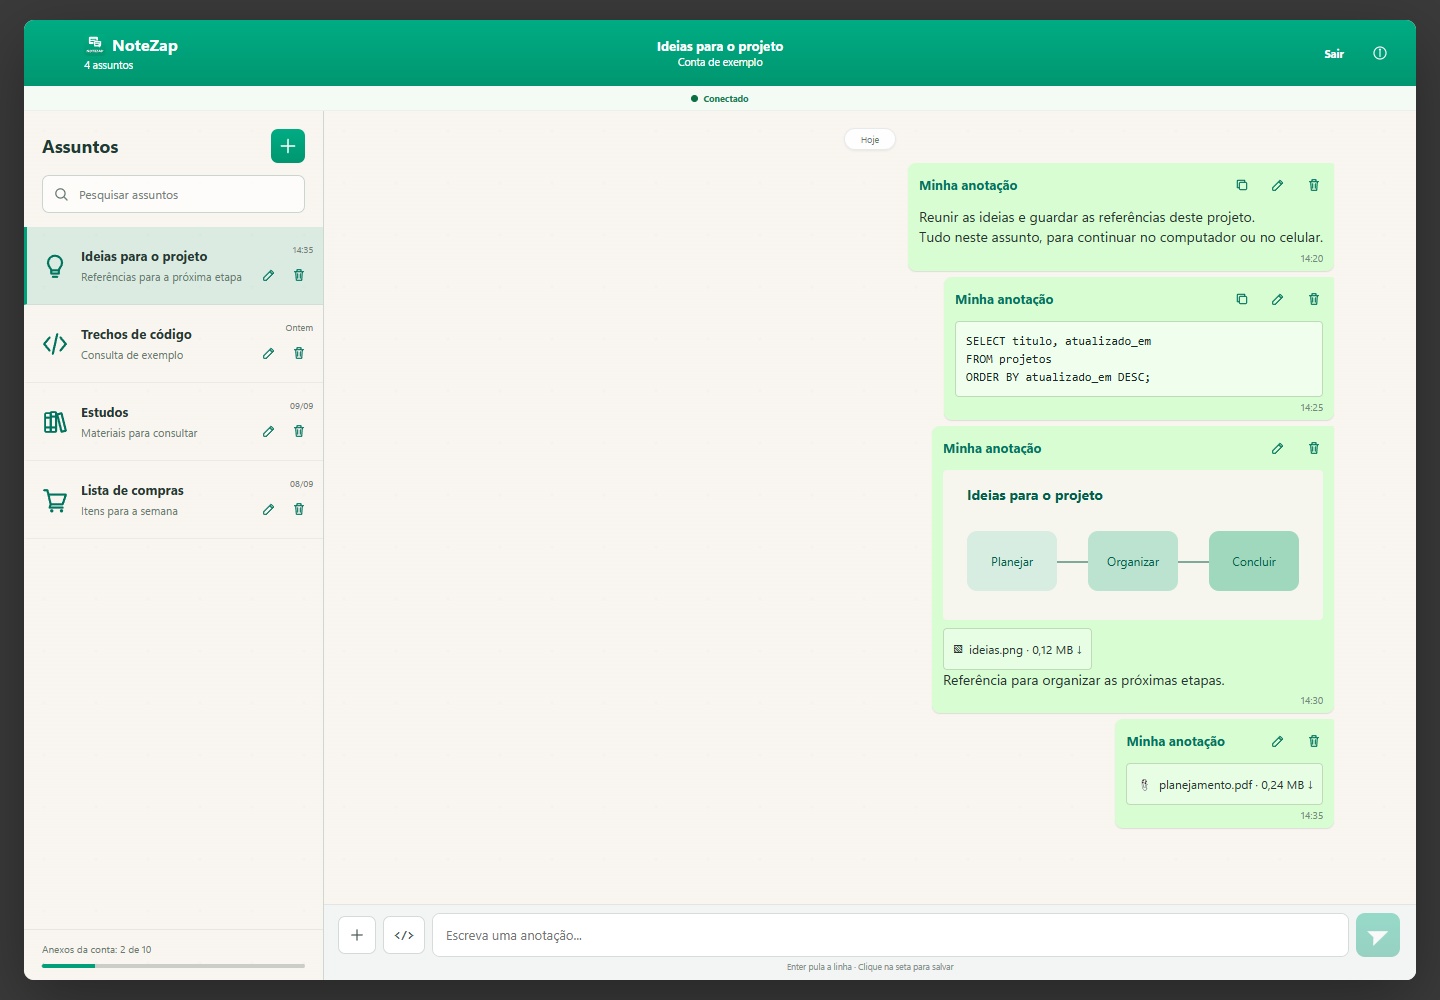
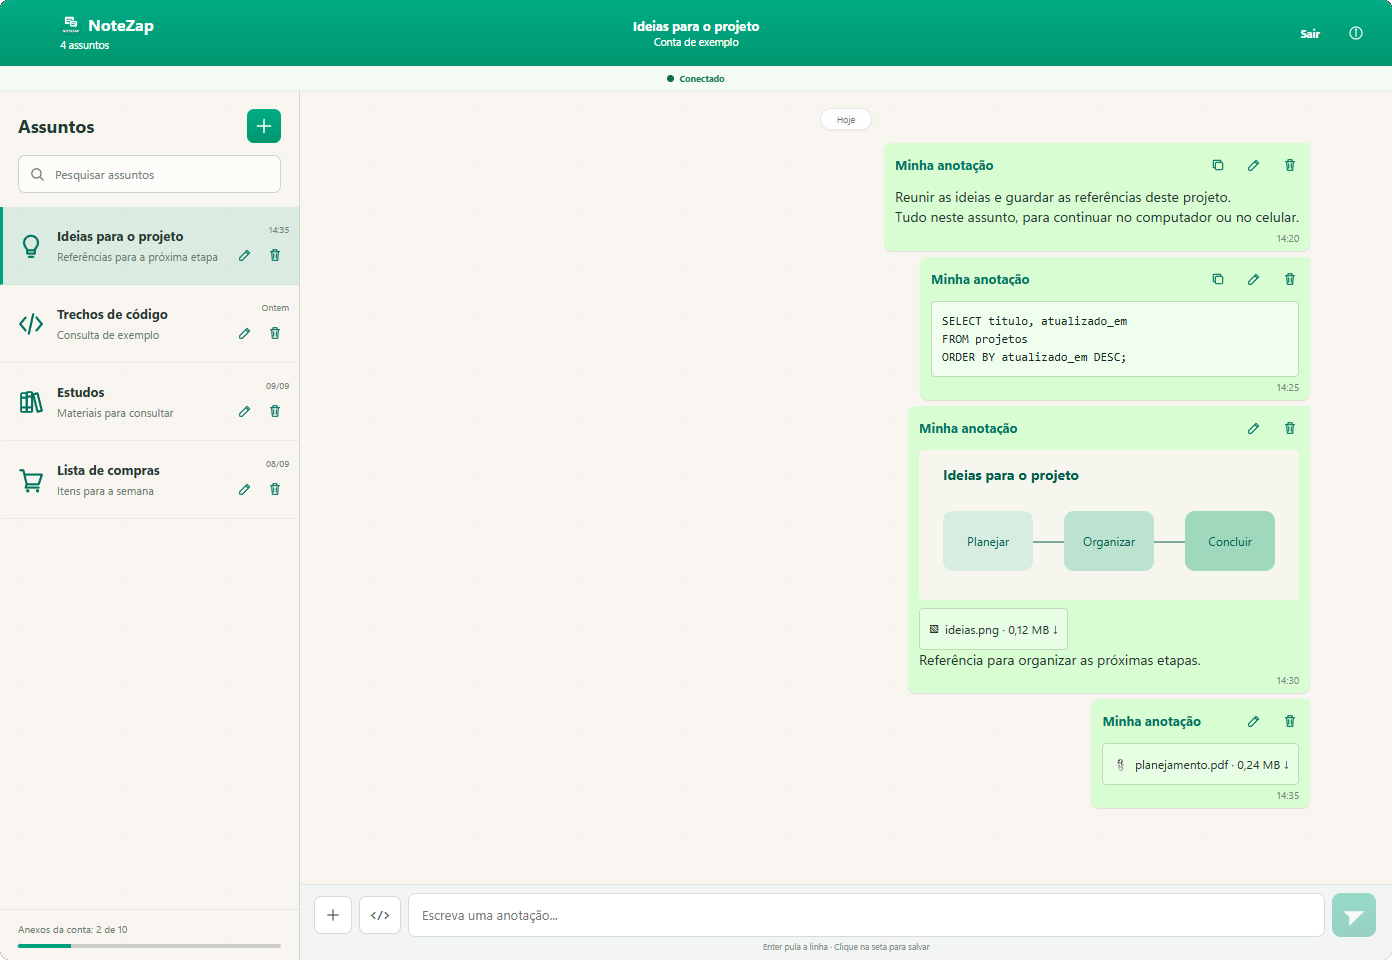
Padroniza a vitrine e corrige a prévia local
Os cards do NoteZap e do CopieECole agora seguem o padrão visual da vitrine, o print do NoteZap não possui moldura exclusiva e os selos Novo compartilham a mesma aparência. A prévia aberta por arquivo consulta os manifestos publicados sem enfraquecer a validação dos instaladores.

Changed region(s): [[0.0, 0.0, 1.0, 1.0], [0.1853, 0.4688, 0.2162, 0.5312], [0.5869, 0.125, 0.6178, 0.1562]]

diff --git a/index.html b/index.html
@@ -3,7 +3,7 @@
 <head>
 <meta charset="UTF-8">
 <meta name="viewport" content="width=device-width, initial-scale=1.0">
-<meta http-equiv="Content-Security-Policy" content="default-src 'self'; base-uri 'none'; object-src 'none'; frame-src 'none'; form-action 'none'; script-src 'self' 'unsafe-inline'; style-src 'self' 'unsafe-inline' https://fonts.googleapis.com; font-src https://fonts.gstatic.com data:; img-src 'self' data: https://www.paypalobjects.com; connect-src 'self' https://api.github.com; upgrade-insecure-requests">
+<meta http-equiv="Content-Security-Policy" content="default-src 'self'; base-uri 'none'; object-src 'none'; frame-src 'none'; form-action 'none'; script-src 'self' 'unsafe-inline'; style-src 'self' 'unsafe-inline' https://fonts.googleapis.com; font-src https://fonts.gstatic.com data:; img-src 'self' data: https://www.paypalobjects.com; connect-src 'self' https://hetoandrade.com.br https://api.github.com; upgrade-insecure-requests">
 <meta name="referrer" content="no-referrer">
 
 <!-- SEO -->
@@ -1349,7 +1349,7 @@
           <div class="screenshot-label"><strong>Prévia ilustrativa</strong> — entrada com sua conta Google</div>
         </div>
         <div class="screenshot-card" role="button" tabindex="0" aria-label="Ampliar a prévia das anotações do NoteZap" onclick="openLightbox('Prints/NoteZap/anotacoes-ilustrativas.png', 'notezap')" onkeydown="if(event.key === 'Enter' || event.key === ' ') { event.preventDefault(); this.click(); }">
-          <img src="Prints/NoteZap/anotacoes-ilustrativas.png" alt="Prévia ilustrativa do NoteZap com assuntos, anotações de texto e código, imagem e arquivo de exemplo" loading="lazy" width="1440" height="1000">
+          <img src="Prints/NoteZap/anotacoes-ilustrativas.png" alt="Prévia ilustrativa do NoteZap com assuntos, anotações de texto e código, imagem e arquivo de exemplo" loading="lazy" width="1392" height="960">
           <div class="screenshot-label"><strong>Prévia ilustrativa</strong> — assuntos, textos, códigos e anexos</div>
         </div>
       </div>
@@ -1800,7 +1800,13 @@
   </button>
 </div>
 
+<script src="manifest-source.js"></script>
 <script>
+var siteManifestUrl = window.HetoandradeSite &&
+  typeof window.HetoandradeSite.manifestUrl === 'function'
+  ? window.HetoandradeSite.manifestUrl
+  : function(fileName) { return fileName; };
+
 // ─── Lightbox ───
 var lightboxGroups = {
   notezap: [
@@ -2126,7 +2132,7 @@ fetch('https://api.github.com/repos/hetoandrade/hetoandrade.github.io/releases?p
   .catch(function() {});
 
 // ─── Versao VozDigitada ───
-fetch('version.json', { cache: 'no-cache' })
+fetch(siteManifestUrl('version.json'), { cache: 'no-cache' })
   .then(function(r) { return r.json(); })
   .then(function(data) {
     var v = data.version;
@@ -2143,7 +2149,7 @@ fetch('version.json', { cache: 'no-cache' })
   });
 
 // ─── Versao DriverStatus ───
-fetch('version_driverstatus.json', { cache: 'no-cache' })
+fetch(siteManifestUrl('version_driverstatus.json'), { cache: 'no-cache' })
   .then(function(r) { return r.json(); })
   .then(function(data) {
     var v = data.version;
@@ -2197,7 +2203,7 @@ fetch('version_driverstatus.json', { cache: 'no-cache' })
     });
   }
 
-  fetch('version_copieecole.json', { cache: 'no-cache' })
+  fetch(siteManifestUrl('version_copieecole.json'), { cache: 'no-cache' })
     .then(function(response) {
       if (!response.ok) throw new Error('Manifesto indisponível');
       return response.json();
@@ -2367,7 +2373,7 @@ fetch('version_driverstatus.json', { cache: 'no-cache' })
     var availability = element(config.availabilityId);
     var buttons = config.buttonIds.map(element);
 
-    fetch(config.manifest, { cache: 'no-cache' })
+    fetch(siteManifestUrl(config.manifest), { cache: 'no-cache' })
       .then(function(response) {
         if (!response.ok) throw new Error('Manifesto indisponível');
         return response.json();

diff --git a/notezap-download.js b/notezap-download.js
@@ -14,7 +14,12 @@
     });
   });
 
-  fetch('version_notezap.json', { cache: 'no-cache' })
+  var manifestUrl = typeof window !== 'undefined' && window.HetoandradeSite &&
+    typeof window.HetoandradeSite.manifestUrl === 'function'
+    ? window.HetoandradeSite.manifestUrl('version_notezap.json')
+    : 'version_notezap.json';
+
+  fetch(manifestUrl, { cache: 'no-cache' })
     .then(function (response) {
       if (!response.ok) throw new Error('Manifesto indisponível');
       return response.json();

diff --git a/manifest-source.js b/manifest-source.js
@@ -1,0 +1,16 @@
+(function (global) {
+  'use strict';
+
+  var productionOrigin = 'https://hetoandrade.com.br/';
+
+  function manifestUrl(fileName) {
+    if (global.location && global.location.protocol === 'file:') {
+      return new URL(fileName, productionOrigin).href;
+    }
+
+    return fileName;
+  }
+
+  global.HetoandradeSite = global.HetoandradeSite || {};
+  global.HetoandradeSite.manifestUrl = manifestUrl;
+})(window);

diff --git a/style.css b/style.css
@@ -1124,11 +1124,6 @@ body::before { display: none; }
   white-space: nowrap;
 }
 
-.nav-item .badge.available {
-  background: #dcfce7;
-  color: #166534;
-}
-
 .nav-icon-img.copieecole,
 .app-icon.copieecole img {
   border-radius: 10px;
